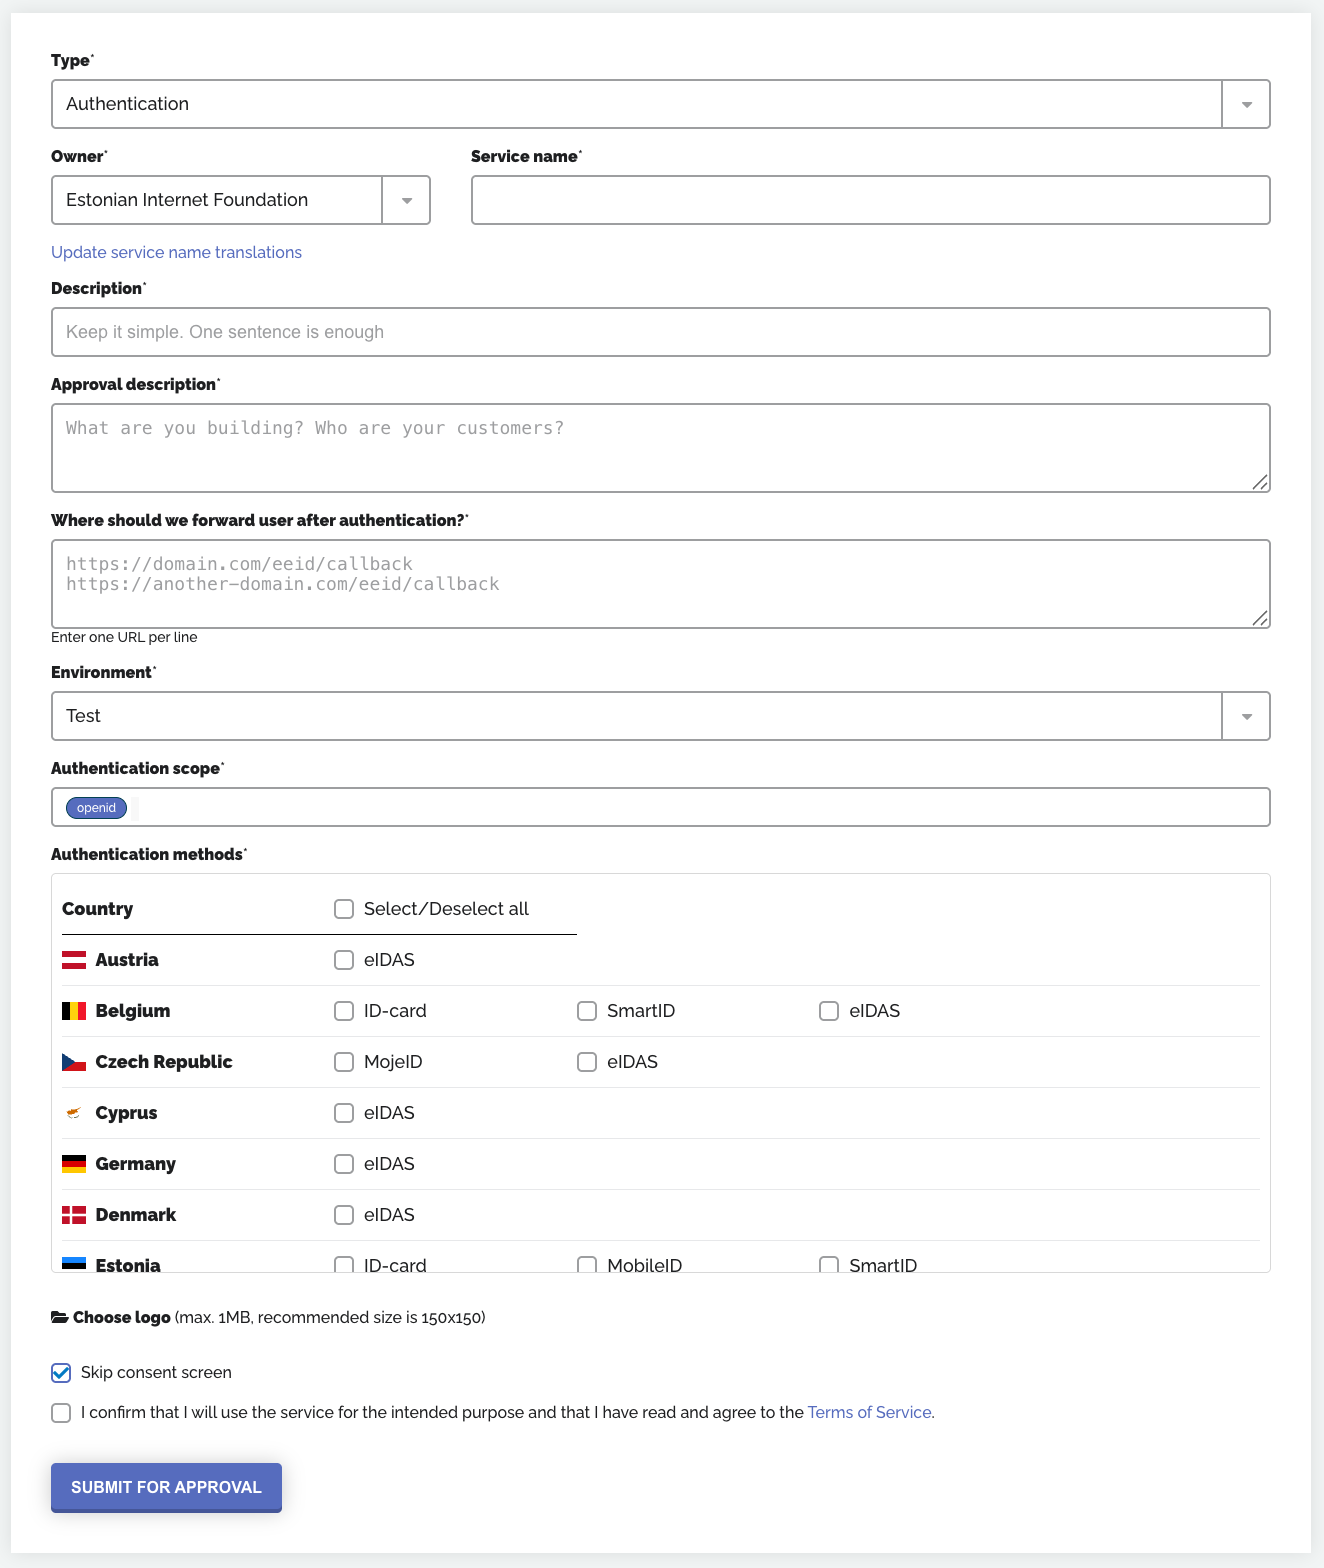
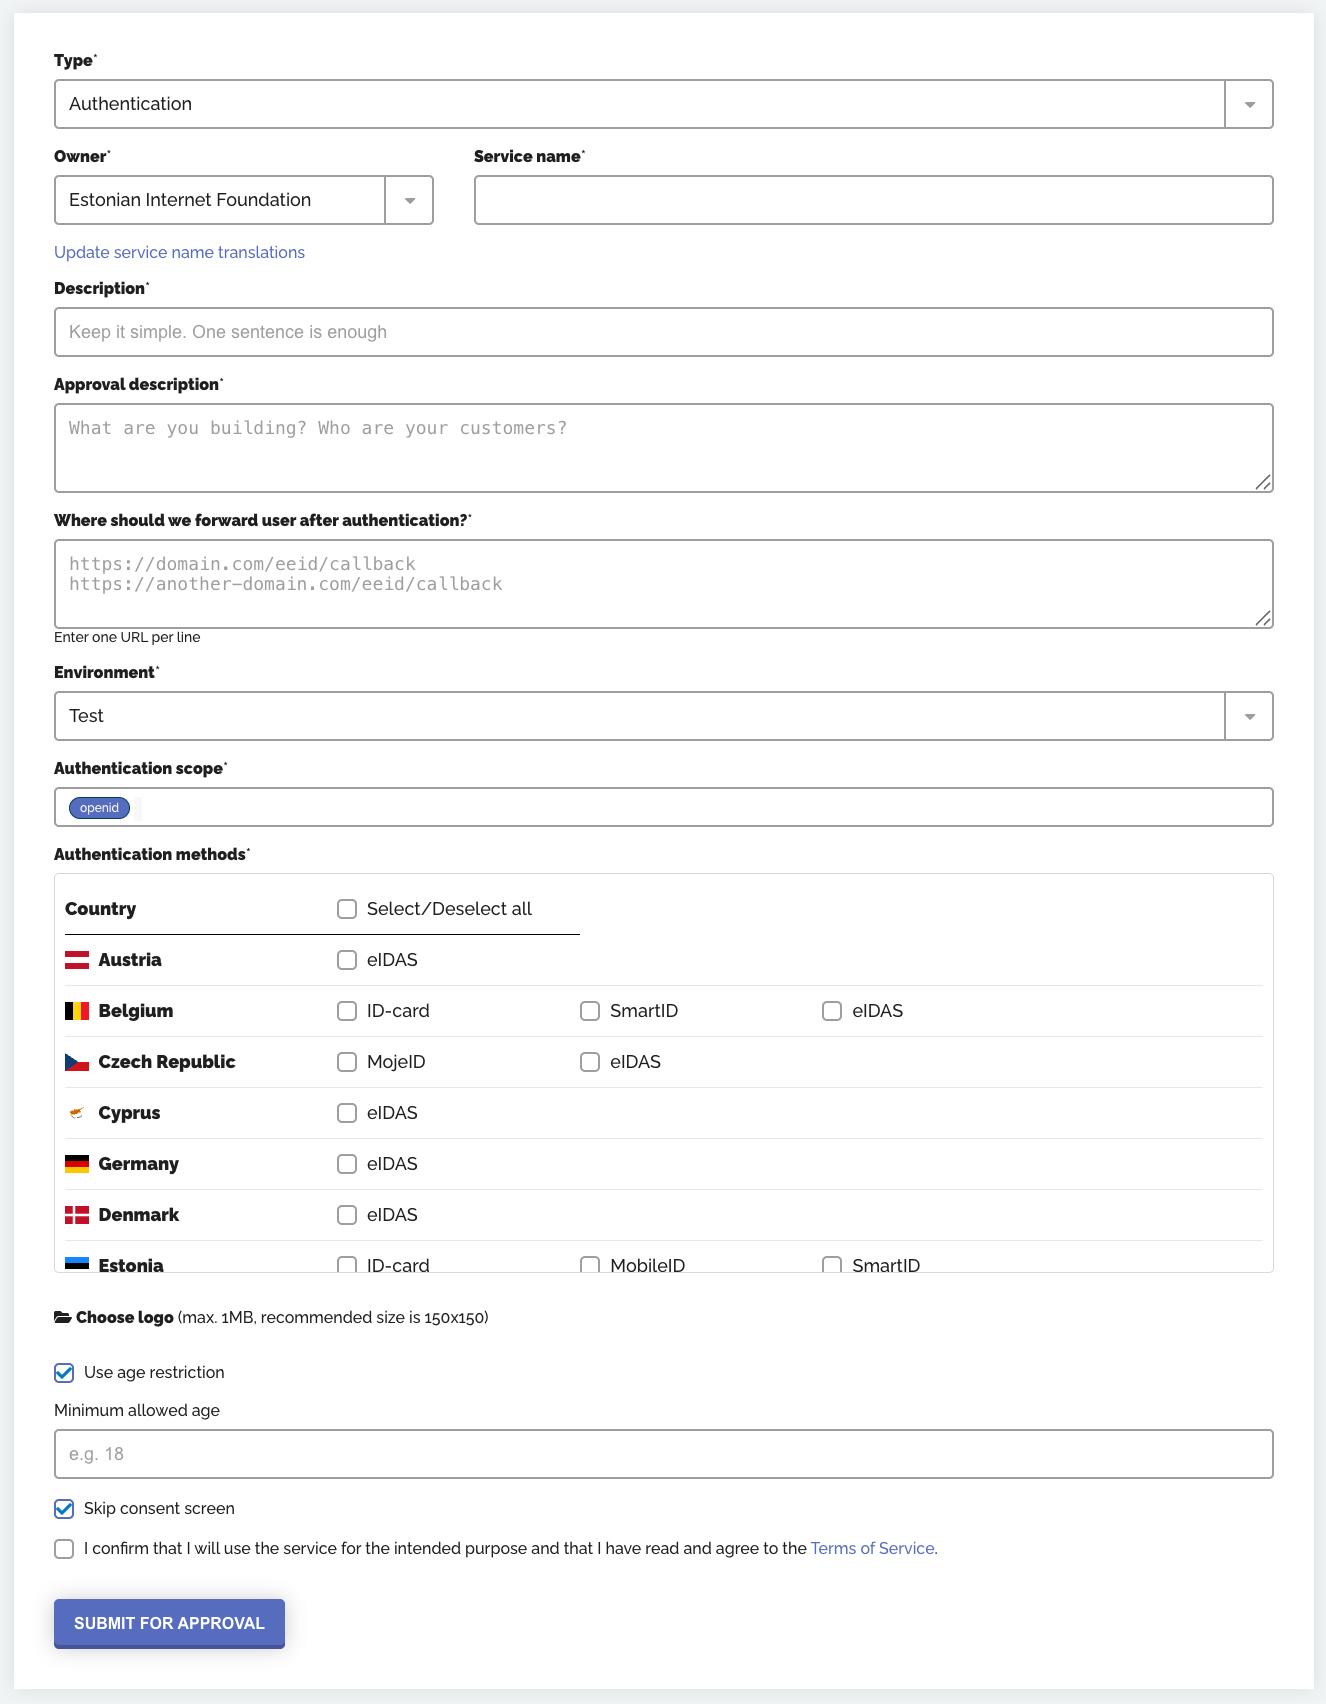
Added age restriction info

diff --git a/source/index.html.md b/source/index.html.md
@@ -190,6 +190,8 @@ You can create a new service on your personal account or any organization where 
 * **Authentication methods** - choose the authentication methods you wish to support. You can select one or more methods based on your preferred country.
 * **Consent screen** (`Authentication`) - configure it to skip the "consent screen", which is the screen where the user must explicitly agree to giving the service access to their data and allow perform operations on their behalf.
 * **Choose logo** (`Authentication`) - upload a logo for your service.
+* **Age restriction** (`Authentication`, optional) - enable age restriction and set a minimum age for your service. When enabled, eeID checks the authenticated user's date of birth (if present) against the configured minimum age before finalizing consent. If the requirement is not met, the authorization is rejected and the client application receives an `access_denied` error.
+  **NB!** Latvian eParaksts and SmartID authentication methods do not provide birthdate at the moment. Age restriction cannot be enforced for users authenticating with these methods, as the required birthdate information will not be available.
 * **Submission** - review all the details entered in the form, and if everything is correct, click on `SUBMIT FOR APPROVAL` to submit your service.
 
 Once you submit the form, it will be reviewed by the service administrators
@@ -390,7 +392,15 @@ The+requested+scope+is+invalid%2C+unknown%2C+or+malformed.+The+OAuth+2.0+Client+
 &state=0b60fe50138f8fdd56afd2a6ab7a40f9
 ```
 <br>
-The redirect request errors are normally resulted by a misconfiguration; therefore the error description in parameter `error_description` is not needed to be displayed for the user directly. The client application should check whether or not an error message has been sent.
+If the service has age restriction enabled and the authenticated user does not meet the configured minimum age, eeID returns an authorization error:
+
+```shell
+GET https://eservice.institution.ee/callback?error=access_denied&error_description=
+User+must+be+at+least+18+years+old.
+&state=0b60fe50138f8fdd56afd2a6ab7a40f9
+```
+<br>
+Redirect request errors can be caused by both technical issues (for example, misconfiguration) and policy decisions (for example, age restriction). The client application should always check whether an `error` parameter is present and handle it accordingly.
 
 ### Identity token request
 
@@ -607,7 +617,7 @@ A prerequisite for testing the eeID authentication service is registering a serv
 Users for successful authentication:
 
 - Mobile ID phone and id numbers: EE - `68000769` | `60001017869`, LT - `60000666` | `50001018865`
-- Smart-ID personal codes: EE - `39901012239`, LV - `040404-10003`, LT - `40504040001`, BE - `05040400032`
+- Smart-ID personal codes: EE - `39901012239`, LV - `050405-10009`, LT - `40504040001`, BE - `05040400032`
 - eIDAS country Czech Republic: select `Testovací profily` from the redirection screen and select a test user for authentication
 
 ### Mobile ID
